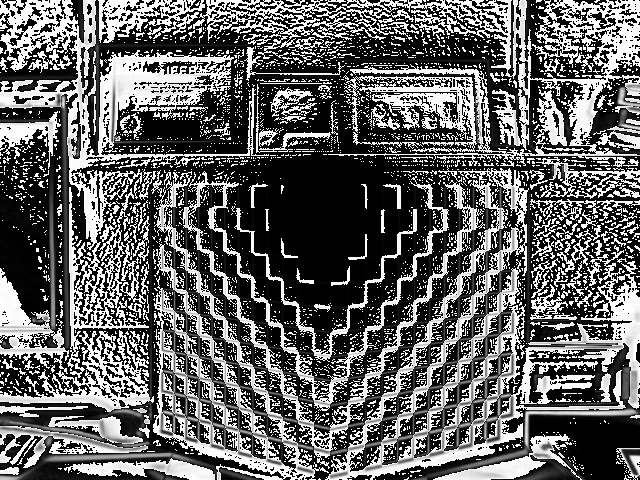
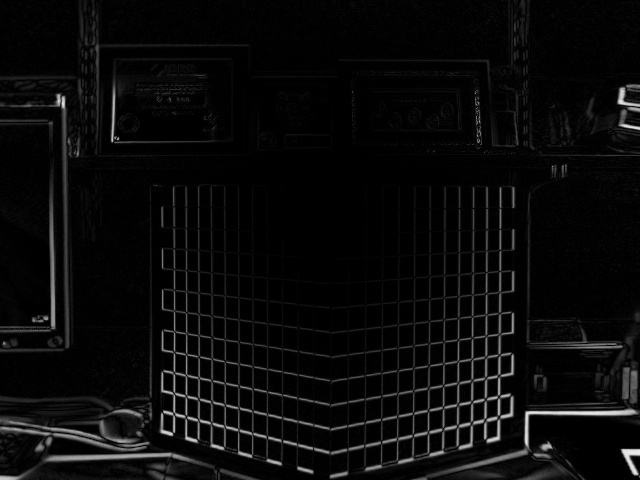
finished task 4 hw 2

diff --git a/hw_2/task4.py b/hw_2/task4.py
@@ -1,0 +1,22 @@
+import numpy as np
+import cv2 as cv
+import os
+
+image_path = os.getcwd() + "/Object_Image_And_Data_For_Pose_Estimation/Object_with_Corners.jpg"
+file_path = os.getcwd() + "/Object_Image_And_Data_For_Pose_Estimation/fileDownload.txt"
+image_points = []
+world_points = []
+with open(file_path) as file:
+    for line in file:
+        line_data = np.fromstring(line, dtype=float, sep=' ').tolist()
+        if len(line_data) == 2:
+            image_points.append([line_data])
+        if len(line_data) == 3:
+            world_points.append(line_data)
+image = cv.imread(image_path)
+camera_matrix = np.load("intrinsic_parameters.npy")
+distortion_parameters = np.load("distortion_parameters.npy")
+return_value, rotation_vector, translation_vector = cv.solvePnP(np.array(world_points),np.array(image_points),camera_matrix,distortion_parameters)
+rotation_matrix, jacobian = cv.Rodrigues(rotation_vector.flatten())
+print("rotation_matrix: " , rotation_matrix)
+print("translation_vector: " , translation_vector)

diff --git a/hw_2/task2.py b/hw_2/task2.py
@@ -16,12 +16,14 @@ half_of_window_size = (11,11)
 termination_criteria = (cv.TERM_CRITERIA_EPS + cv.TERM_CRITERIA_MAX_ITER, 40, 0.001)
 world_points = np.zeros((number_of_inner_column_corners*number_of_inner_column_rows,3), np.float32)
 world_points[:,:2] = np.mgrid[0:number_of_inner_column_corners,0:number_of_inner_column_rows].T.reshape(-1,2)
+print("world_points: " , np.shape(world_points))
 world_points_array = []
 image_points_array = []
 for file in files:
     gray_image = cv.imread(file, cv.IMREAD_GRAYSCALE)
     return_value, corner_locations = cv.findChessboardCorners(gray_image, chessboard_shape)
     refined_corner_locations = cv.cornerSubPix(gray_image, corner_locations, half_of_window_size, zero_zone,termination_criteria)
+    print("refined_corner_locations: " , np.shape(refined_corner_locations))
     world_points_array.append(world_points)
     image_points_array.append(refined_corner_locations)
     # pattern_was_found = False

diff --git a/hw_2/task3.py b/hw_2/task3.py
@@ -12,9 +12,9 @@ turned_image = cv.imread(image_directory + "/Turned.jpg" )
 corrected_far_image = cv.undistort(far_image,camera_matrix,distortion_parameters,None)
 corrected_close_image = cv.undistort(close_image,camera_matrix,distortion_parameters,None)
 corrected_turned_image = cv.undistort(turned_image,camera_matrix,distortion_parameters,None)
-close_difference_image = np.abs(close_image - corrected_close_image)
-far_difference_image =  np.abs(far_image - corrected_far_image)
-turned_difference_image = np.abs(turned_image - corrected_turned_image)
+close_difference_image = cv.absdiff(close_image,corrected_close_image)
+far_difference_image =  cv.absdiff(far_image ,corrected_far_image)
+turned_difference_image = cv.absdiff(turned_image , corrected_turned_image)
 
 cv.imshow("close_difference_image" , close_difference_image)
 cv.imwrite("close_difference_image.jpg", close_difference_image)
